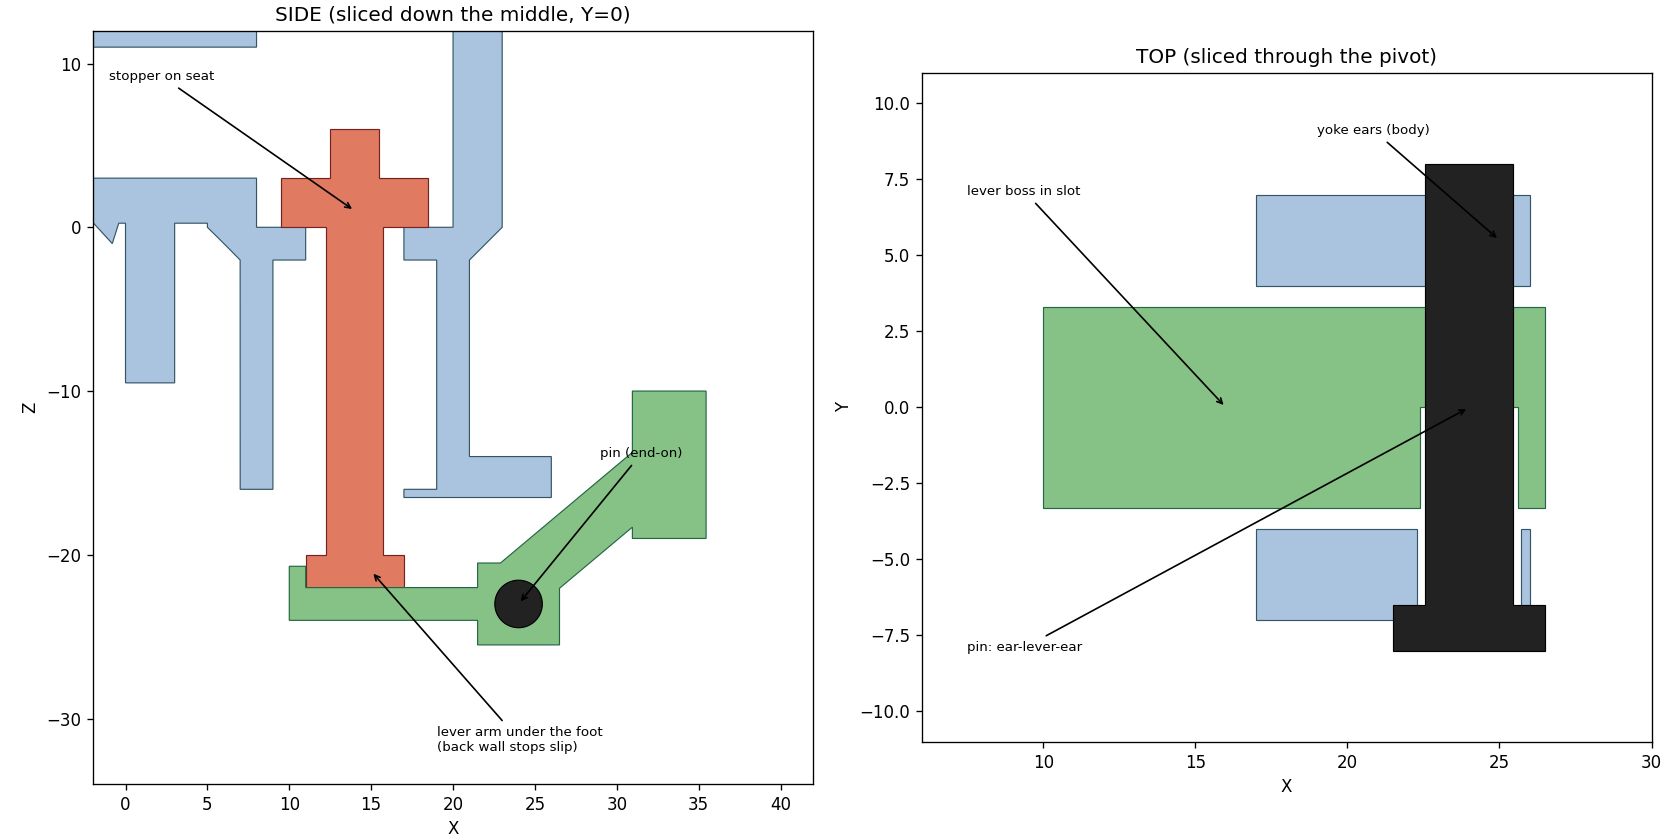
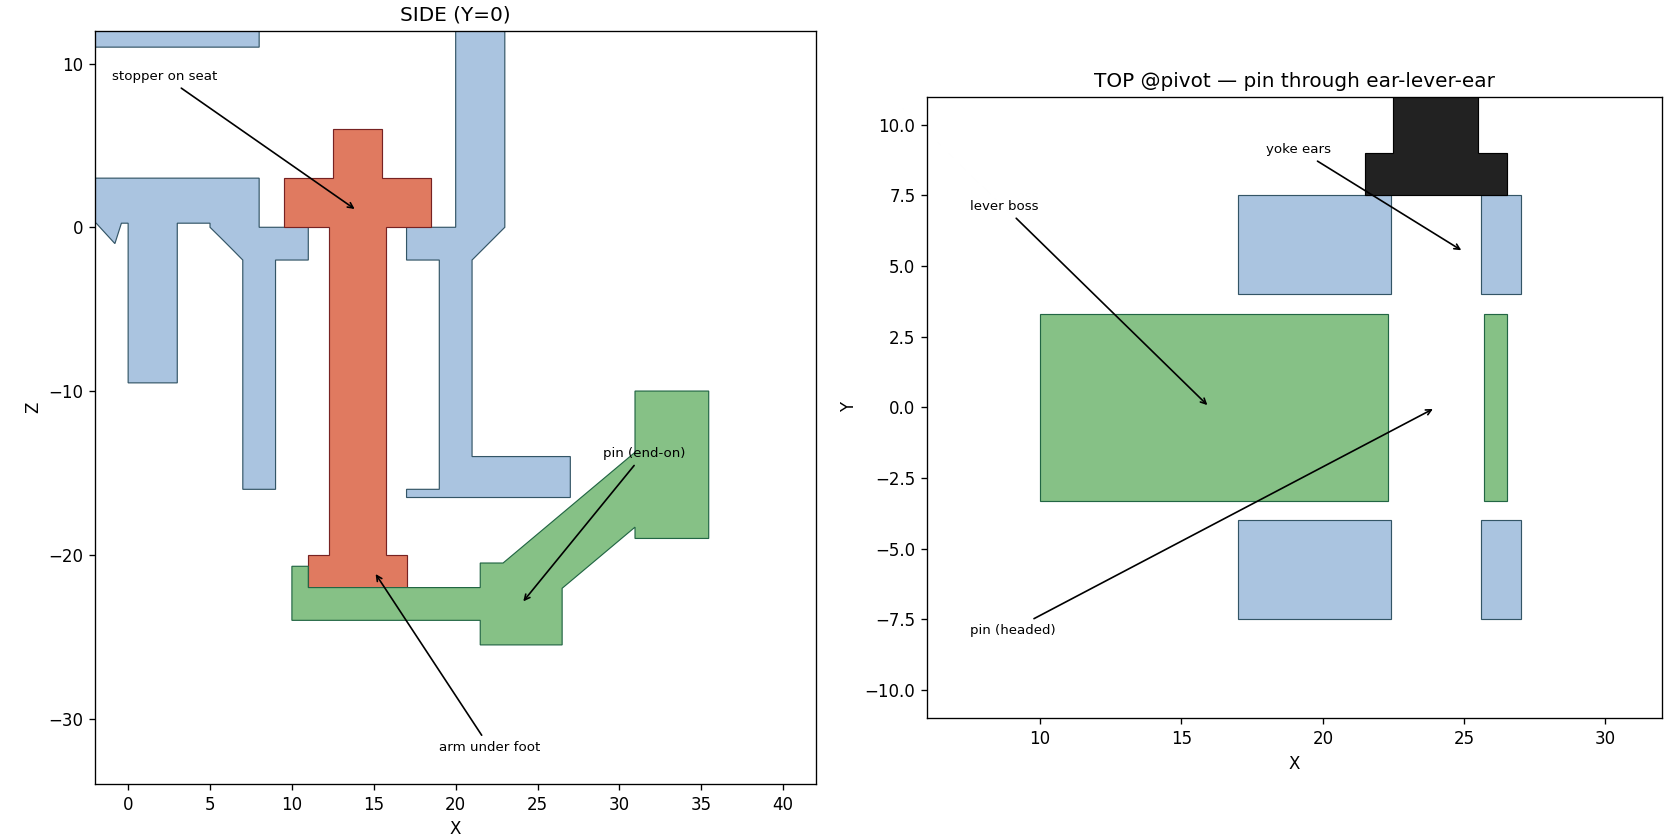
fix(pitcher-spigot): drill pivot holes all the way through
The pin holes were built as rotated align=BOTTOM cylinders, which drill
only one side — so the lever hole was blind, the body drilled just one
ear, and the pin could not pass through. The hole also sat 0.3 mm from
the ear edge, leaving no plastic.

Centre both holes so they pass right through; deepen and widen the yoke
ears so the hole keeps >2 mm of plastic all round; size the pin to the
yoke width with a head so it cannot fall out. Add a regression test
asserting a pin shaft clears a through-hole in both ears and the lever.

diff --git a/projects/pitcher-spigot-valve/3d/valve_body.py b/projects/pitcher-spigot-valve/3d/valve_body.py
@@ -81,9 +81,12 @@ spout_cone = Pos(XC, 0, -CONE_H) * Cone(SPOUT_OR, CH_OR, CONE_H, align=BOTTOM)
 # through PIVOT. Exported so lever.py shares the pivot location.
 PIVOT_X = XC + 10.0  # 24
 PIVOT_Z = -23.0
-PIN_R = 1.7  # Ø3.4 pin hole
-yoke_block = Pos(21.5, 0, -19.5) * Box(9, 14, 11)  # X17..26 Y-7..7 Z-25..-14
-yoke_slot = Pos(19.0, 0, -21.0) * Box(16, 8, 9)  # remove center: lever-arm slot, open bottom
+PIN_R = 1.6  # Ø3.2 pin clearance hole
+# Ears 3.5 mm thick (Y 4..7.5), with >2 mm of plastic all round the pin hole:
+# the block runs Z=−27..−14 (4 mm below the hole at −23) and X=17..28 (2.4 mm
+# past the hole at X=24).
+yoke_block = Pos(22.0, 0, -20.5) * Box(10, 15, 13)  # X17..27 Y-7.5..7.5 Z-27..-14
+yoke_slot = Pos(19.5, 0, -22.25) * Box(19, 8, 11.5)  # lever slot, open bottom; leaves two ears
 yoke = yoke_block - yoke_slot
 struct = chamber + spout + spout_cone + stub + flange + yoke
 
@@ -109,8 +112,9 @@ seat_hole = Pos(XC, 0, -FLOOR_T) * Cylinder(SEAT_HOLE_R, FLOOR_T + 0.5, align=BO
 # Feed bore: Ø8 along −X at Z_IN, pitcher → chamber cavity.
 feed = Pos(BARREL_X0 - 1, 0, Z_IN) * (Rot(0, 90, 0) * Cylinder(BORE_R, STUB_LEN + 1, align=BOTTOM))
 
-# Pivot pin hole through both yoke ears (along Y).
-pivot_hole = Pos(PIVOT_X, 0, PIVOT_Z) * (Rot(90, 0, 0) * Cylinder(PIN_R, 20, align=BOTTOM))
+# Pivot pin hole through BOTH yoke ears (centred on Y so it passes all the way
+# through — a rotated align=BOTTOM cylinder would only drill one side).
+pivot_hole = Pos(PIVOT_X, 0, PIVOT_Z) * (Rot(90, 0, 0) * Cylinder(PIN_R, 18))
 
 body = solid - cavity - spout_bore - seat_hole - feed - pivot_hole
 

diff --git a/projects/pitcher-spigot-valve/3d/lever.py b/projects/pitcher-spigot-valve/3d/lever.py
@@ -17,7 +17,7 @@ from build123d import Align, Box, Cylinder, Pos, Rot, export_stl
 # ─── Parameters (mm) — pivot matches valve_body.py ──
 PIVOT_X = 24.0
 PIVOT_Z = -23.0
-HOLE_R = 1.6  # Ø3.2 — runs on the Ø3 pin
+HOLE_R = 1.7  # Ø3.4 — runs freely on the Ø3 pin
 ARM_HALF_Y = 3.3  # fits the yoke slot (Y = ±4)
 FOOT_X = 14.0  # stem-foot axis (valve_body XC)
 ARM_TOP_Z = -22.0  # arm top meets the foot bottom here at rest
@@ -42,10 +42,9 @@ handle = Pos(PIVOT_X + 4, 0, PIVOT_Z + 4.5) * Rot(0, -40, 0) * Box(14, 2 * ARM_H
 paddle = Pos(PIVOT_X + 9.2, 0, PIVOT_Z + 8.5) * Box(4.5, 2 * (ARM_HALF_Y + 1.5), 9)
 
 lever = boss + arm + cradle_back + handle + paddle
-# Pin hole through the boss (along Y).
-pin_hole = Pos(PIVOT_X, 0, PIVOT_Z) * (
-    Rot(90, 0, 0) * Cylinder(HOLE_R, 2 * ARM_HALF_Y + 2, align=BOTTOM)
-)
+# Pin hole all the way through the boss — centred on Y (a rotated align=BOTTOM
+# cylinder would only drill halfway, leaving a blind hole).
+pin_hole = Pos(PIVOT_X, 0, PIVOT_Z) * (Rot(90, 0, 0) * Cylinder(HOLE_R, 8))
 lever -= pin_hole
 
 # ─── Export ──

diff --git a/tests/test_pitcher_spigot_valve_fit.py b/tests/test_pitcher_spigot_valve_fit.py
@@ -58,3 +58,16 @@ def test_stopper_seats_seals_and_opens():
         "solid seat floor must stop the stopper dropping through the throat"
     )
     assert _overlap_volume(body, Pos(0, 0, 5) * poppet) < 1.0, "stopper must lift clear to pour"
+
+
+def test_pin_passes_through_both_ears_and_lever():
+    """The pivot holes must go ALL the way through both yoke ears and the lever
+    boss. (A rotated `align=BOTTOM` cylinder silently drills only one side —
+    this guards that regression: a pin shaft must clear with no interference.)"""
+    from build123d import Cylinder, Rot
+
+    vb = _load("valve_body")
+    body, lever = vb.body, _load("lever").lever
+    shaft = Pos(vb.PIVOT_X, 0, vb.PIVOT_Z) * (Rot(90, 0, 0) * Cylinder(1.5, 16))
+    assert _overlap_volume(shaft, body) < 0.5, "pin must clear a through-hole in BOTH yoke ears"
+    assert _overlap_volume(shaft, lever) < 0.5, "pin must clear a through-hole in the lever boss"

diff --git a/projects/pitcher-spigot-valve/3d/pin.py b/projects/pitcher-spigot-valve/3d/pin.py
@@ -9,8 +9,8 @@ from pathlib import Path
 
 from build123d import Align, Cylinder, export_stl
 
-PIN_R = 1.45  # Ø2.9 — slips through the Ø3.2 lever hole / Ø3.4 yoke holes
-PIN_LEN = 16.0  # spans both yoke ears (Y = ±7)
+PIN_R = 1.5  # Ø3.0 — snug in the Ø3.2 yoke holes, free in the Ø3.4 lever hole
+PIN_LEN = 15.0  # spans the yoke outer width (Y = ±7.5), flush at the far ear
 HEAD_R = 2.5  # Ø5 head — can't pass through, so the pin can't fall out
 HEAD_H = 1.5
 
